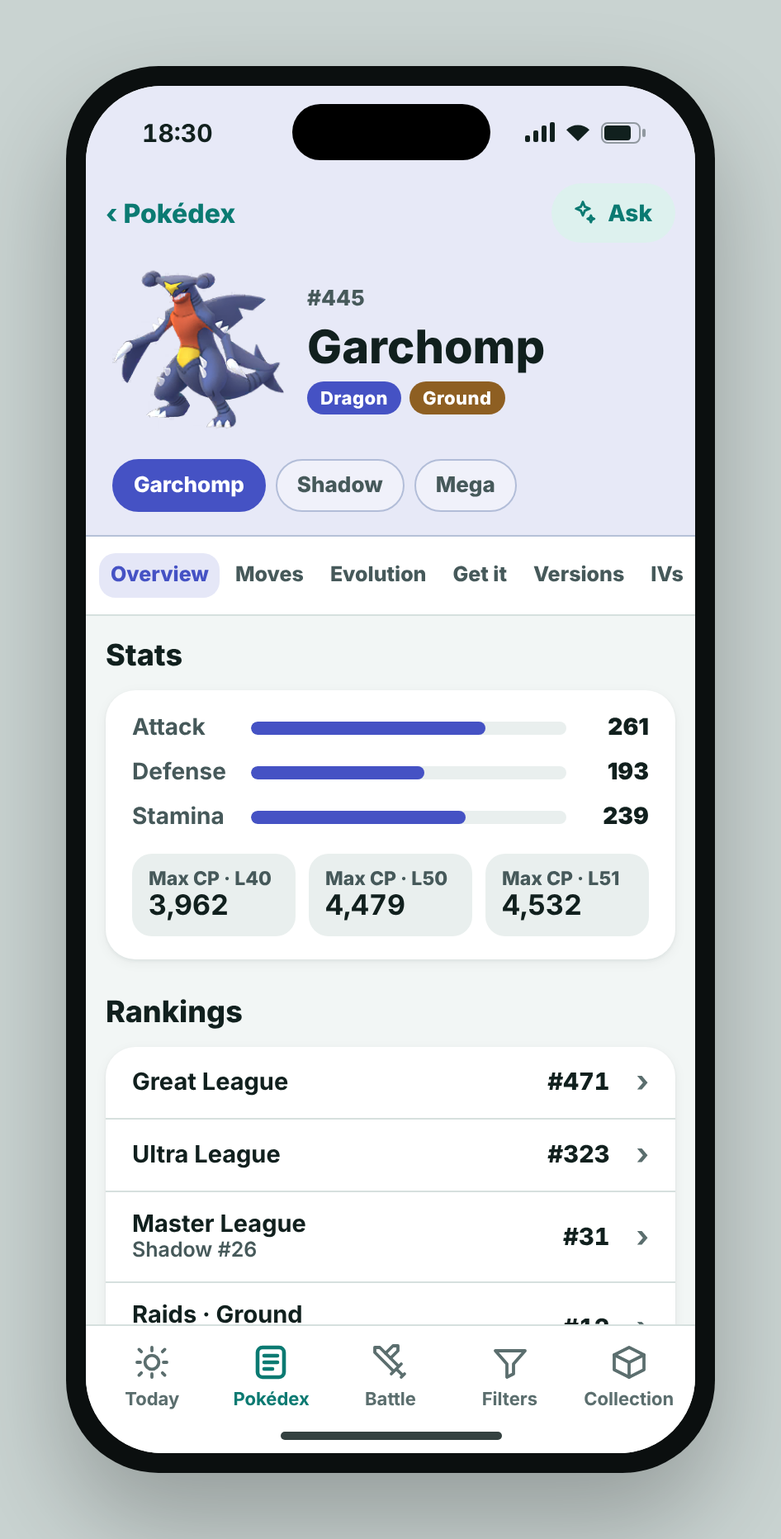
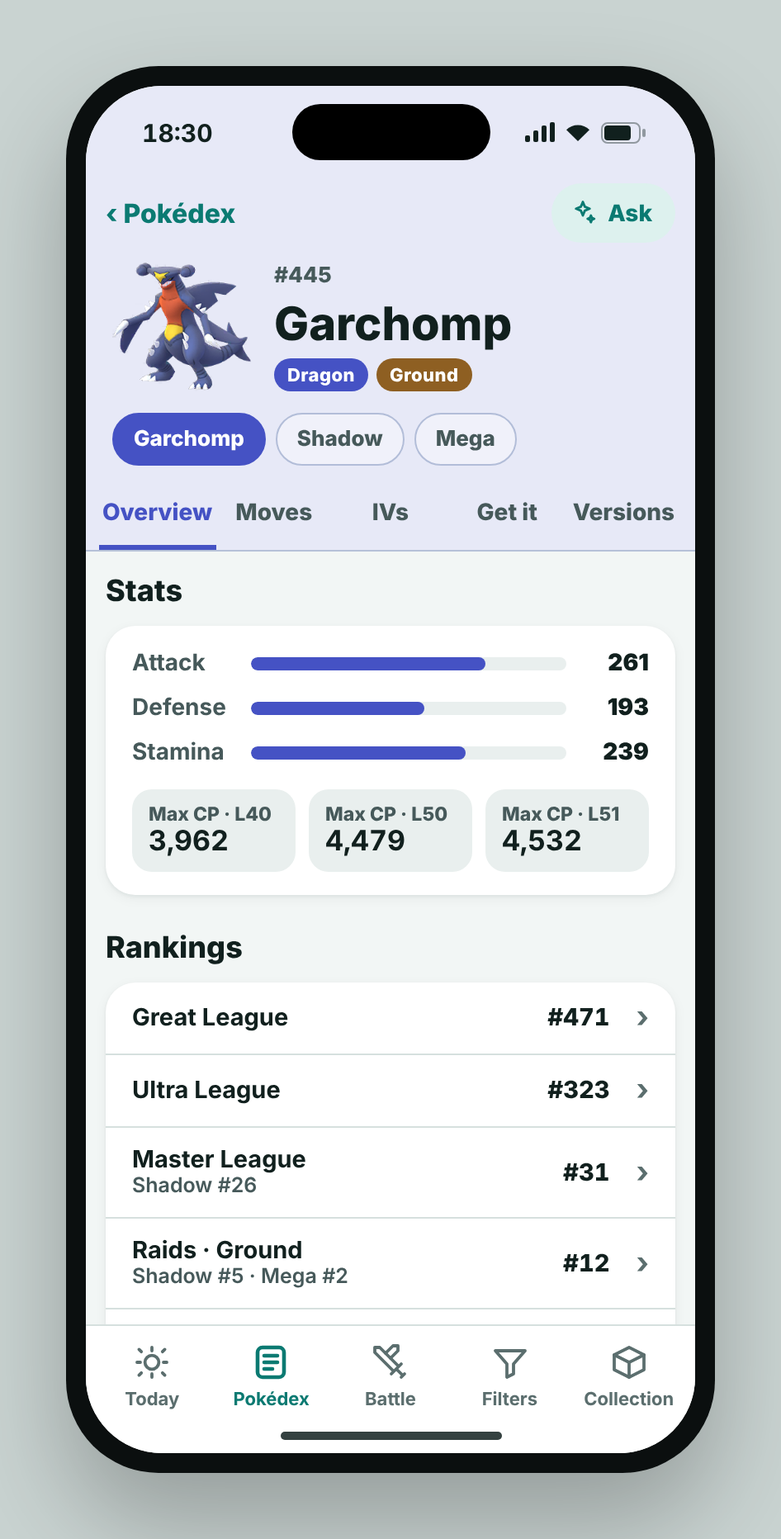
Design: B2 phone uses tabs (Overview, Moves, IVs, Get it, Versions)
Claude-Session: https://claude.ai/code/session_014PLsCiJiJmtsciFeh9tQXY

diff --git a/design/source/screens/B2-phone.html b/design/source/screens/B2-phone.html
@@ -1,21 +1,9 @@
 <!doctype html><html lang="en"><head><meta charset="utf-8"><title>B2 Pokémon page</title><link rel="stylesheet" href="../base.css"><link rel="stylesheet" href="_b2.css"></head><body><div class="stage tint"><div class="device"><div class="screen">
-<div data-statusbar></div><div class="band"><div data-dethead="Pokédex|"></div><div class="hero"><img class="sprite" src="../sprites/445.png" width="104" height="104" alt="Garchomp"><div style="display:flex;flex-direction:column;gap:6px"><span class="no">#445</span><h1>Garchomp</h1><span style="display:flex;gap:5px"><span class="type dragon">Dragon</span><span class="type ground">Ground</span></span></div></div>
-<div class="vswitch"><span class="on">Garchomp</span><span>Shadow</span><span>Mega</span></div></div><div class="jump"><span class="on">Overview</span><span class="">Moves</span><span class="">Evolution</span><span class="">Get it</span><span class="">Versions</span><span class="">IVs</span></div>
-<div class="scroll"><div style="padding:14px 12px 20px;display:flex;flex-direction:column;gap:22px">
-<section class="sec" id="overview"><h2>Stats</h2><div class="card pad" style="display:flex;flex-direction:column;gap:10px"><div class="statrow"><span class="muted">Attack</span><div class="bar"><i style="width:74.6%"></i></div><b style="text-align:right">261</b></div><div class="statrow"><span class="muted">Defense</span><div class="bar"><i style="width:55.1%"></i></div><b style="text-align:right">193</b></div><div class="statrow"><span class="muted">Stamina</span><div class="bar"><i style="width:68.3%"></i></div><b style="text-align:right">239</b></div>
-<div class="kv" style="margin-top:4px"><div><span>Max CP · L40</span><b>3,962</b></div><div><span>Max CP · L50</span><b>4,479</b></div><div><span>Max CP · L51</span><b>4,532</b></div></div></div></section><section class="sec"><h2>Rankings</h2><div class="card"><div class="lrow"><div><div>Great League</div></div><span class="r">#471</span><span class="chev">›</span></div><div class="lrow"><div><div>Ultra League</div></div><span class="r">#323</span><span class="chev">›</span></div><div class="lrow"><div><div>Master League</div><div class=sub>Shadow #26</div></div><span class="r">#31</span><span class="chev">›</span></div><div class="lrow"><div><div>Raids · Ground</div><div class=sub>Shadow #5 · Mega #2</div></div><span class="r">#12</span><span class="chev">›</span></div><div class="lrow"><div><div>Raids · Dragon</div><div class=sub>Shadow #8 · Mega #2</div></div><span class="r">#25</span><span class="chev">›</span></div></div></section><section class="sec"><h2>100% CP cheat sheet</h2><div class="card"><div class="lrow"><span>Research</span><span class="faint" style="font-size:12.5px">L15</span><span class="r">1,698</span></div><div class="lrow"><span>Raids &amp; eggs</span><span class="faint" style="font-size:12.5px">L20</span><span class="r">2,264</span></div><div class="lrow"><span>Weather-boosted raids</span><span class="faint" style="font-size:12.5px">L25</span><span class="r">2,830</span></div><div class="lrow"><span>Wild</span><span class="faint" style="font-size:12.5px">L30</span><span class="r">3,396</span></div><div class="lrow"><span>Wild, weather-boosted</span><span class="faint" style="font-size:12.5px">L35</span><span class="r">3,679</span></div></div></section><section class="sec"><h2>Type matchups</h2><div class="card pad" style="display:flex;flex-direction:column;gap:10px">
+<div data-statusbar></div><div class="band"><div data-dethead="Pokédex|"></div><div class="hero"><img class="sprite" src="../sprites/445.png" width="84" height="84" alt="Garchomp"><div style="display:flex;flex-direction:column;gap:6px"><span class="no">#445</span><h1>Garchomp</h1><span style="display:flex;gap:5px"><span class="type dragon">Dragon</span><span class="type ground">Ground</span></span></div></div>
+<div class="vswitch"><span class="on">Garchomp</span><span>Shadow</span><span>Mega</span></div><div class="ptabs"><span class="on">Overview</span><span class="">Moves</span><span class="">IVs</span><span class="">Get it</span><span class="">Versions</span></div></div>
+<div class="scroll"><div style="padding:14px 12px 20px;display:flex;flex-direction:column;gap:22px"><section class="sec" id="overview"><h2>Stats</h2><div class="card pad" style="display:flex;flex-direction:column;gap:10px"><div class="statrow"><span class="muted">Attack</span><div class="bar"><i style="width:74.6%"></i></div><b style="text-align:right">261</b></div><div class="statrow"><span class="muted">Defense</span><div class="bar"><i style="width:55.1%"></i></div><b style="text-align:right">193</b></div><div class="statrow"><span class="muted">Stamina</span><div class="bar"><i style="width:68.3%"></i></div><b style="text-align:right">239</b></div>
+<div class="kv" style="margin-top:4px"><div><span>Max CP · L40</span><b>3,962</b></div><div><span>Max CP · L50</span><b>4,479</b></div><div><span>Max CP · L51</span><b>4,532</b></div></div></div></section><section class="sec"><h2>Rankings</h2><div class="card"><div class="lrow"><div><div>Great League</div></div><span class="r">#471</span><span class="chev">›</span></div><div class="lrow"><div><div>Ultra League</div></div><span class="r">#323</span><span class="chev">›</span></div><div class="lrow"><div><div>Master League</div><div class=sub>Shadow #26</div></div><span class="r">#31</span><span class="chev">›</span></div><div class="lrow"><div><div>Raids · Ground</div><div class=sub>Shadow #5 · Mega #2</div></div><span class="r">#12</span><span class="chev">›</span></div><div class="lrow"><div><div>Raids · Dragon</div><div class=sub>Shadow #8 · Mega #2</div></div><span class="r">#25</span><span class="chev">›</span></div></div></section><section class="sec"><h2>Type matchups</h2><div class="card pad" style="display:flex;flex-direction:column;gap:10px">
 <div><div class="faint" style="font-size:12.5px;font-weight:800;margin-bottom:6px">Weak to</div><div class="mm"><span class="type ice" style="height:24px;font-size:12px;padding:0 9px">Ice ×2.56</span><span class="type dragon" style="height:24px;font-size:12px;padding:0 9px">Dragon ×1.6</span><span class="type fairy" style="height:24px;font-size:12px;padding:0 9px">Fairy ×1.6</span></div></div>
-<div><div class="faint" style="font-size:12.5px;font-weight:800;margin-bottom:6px">Resists</div><div class="mm"><span class="type electric" style="height:24px;font-size:12px;padding:0 9px">Electric ×0.24</span><span class="type fire" style="height:24px;font-size:12px;padding:0 9px">Fire ×0.63</span><span class="type poison" style="height:24px;font-size:12px;padding:0 9px">Poison ×0.63</span><span class="type rock" style="height:24px;font-size:12px;padding:0 9px">Rock ×0.63</span></div></div></div></section><section class="sec" id="moves"><h2>Moves</h2><div class="card"><div class="lrow" style="flex-direction:column;align-items:flex-start;gap:1px"><span class="sub" style="font-weight:800">Raids · Ground</span><span>Mud Shot + Earth Power</span></div><div class="lrow" style="flex-direction:column;align-items:flex-start;gap:1px"><span class="sub" style="font-weight:800">Raids · Dragon</span><span>Dragon Tail + Breaking Swipe</span></div><div class="lrow" style="flex-direction:column;align-items:flex-start;gap:1px"><span class="sub" style="font-weight:800">Great &amp; Ultra League</span><span>Dragon Tail + Twister, Sand Tomb</span></div><div class="lrow" style="flex-direction:column;align-items:flex-start;gap:1px"><span class="sub" style="font-weight:800">Master League</span><span>Dragon Tail + Twister, Earth Power</span></div></div>
-<div class="card"><div class="mgrp">Fast</div><div class="mrow"><div class="mname"><span class="dot" style="background:var(--t-dragon)"></span>Dragon Tail</div><div class="mstat"><span><b>Raids</b> 14 · 1.0 s · +8</span><span><b>PvP</b> 9 · +12 (3 turns)</span></div></div><div class="mrow"><div class="mname"><span class="dot" style="background:var(--t-ground)"></span>Mud Shot</div><div class="mstat"><span><b>Raids</b> 4 · 0.5 s · +6</span><span><b>PvP</b> 3 · +9 (2 turns)</span></div></div><div class="mgrp">Charged</div><div class="mrow"><div class="mname"><span class="dot" style="background:var(--t-ground)"></span>Earth Power<span class=etm>Elite TM</span></div><div class="mstat"><span><b>Raids</b> 100 · 3.5 s · −50</span><span><b>PvP</b> 90 · −50</span></div></div><div class="mrow"><div class="mname"><span class="dot" style="background:var(--t-dragon)"></span>Outrage</div><div class="mstat"><span><b>Raids</b> 110 · 4.0 s · −50</span><span><b>PvP</b> 110 · −60</span></div></div><div class="mrow"><div class="mname"><span class="dot" style="background:var(--t-ground)"></span>Earthquake</div><div class="mstat"><span><b>Raids</b> 140 · 3.5 s · −100</span><span><b>PvP</b> 120 · −65</span></div></div><div class="mrow"><div class="mname"><span class="dot" style="background:var(--t-dragon)"></span>Breaking Swipe</div><div class="mstat"><span><b>Raids</b> 45 · 1.0 s · −33</span><span><b>PvP</b> 50 · −50</span></div></div><div class="mrow"><div class="mname"><span class="dot" style="background:var(--t-fire)"></span>Fire Blast</div><div class="mstat"><span><b>Raids</b> 140 · 4.0 s · −100</span><span><b>PvP</b> 140 · −80</span></div></div><div class="mrow"><div class="mname"><span class="dot" style="background:var(--t-ground)"></span>Sand Tomb</div><div class="mstat"><span><b>Raids</b> 60 · 4.0 s · −33</span><span><b>PvP</b> 55 · −45</span></div></div><div class="mrow"><div class="mname"><span class="dot" style="background:var(--t-dragon)"></span>Twister</div><div class="mstat"><span><b>Raids</b> 50 · 3.0 s · −33</span><span><b>PvP</b> 70 · −40</span></div></div></div></section><section class="sec" id="evolution"><h2>Evolution</h2><div class="card"><div class="evo"><div class="p"><img class="sprite" src="../sprites/443.png" width="56" height="56" alt="" style="opacity:.85">Gible</div><div class="arrow"><span style="font-size:18px">→</span>25 candy</div><div class="p"><img class="sprite" src="../sprites/444.png" width="56" height="56" alt="" style="opacity:.85">Gabite</div><div class="arrow"><span style="font-size:18px">→</span>100 candy</div><div class="p"><img class="sprite" src="../sprites/445.png" width="56" height="56" alt="" style="">Garchomp</div></div>
-<div class="lrow" style="font-size:13.5px"><span class="muted">Buddy distance</span><span class="r">5 km</span></div></div></section><section class="sec" id="get"><h2>How to get it</h2><div class="card"><div class="lrow" style="padding-bottom:4px"><span class="pill live"><span class="dot" style="width:7px;height:7px;margin:0"></span>Right now</span></div><div class="lrow"><span>1★ raids</span><span class="r" style="font-weight:700;text-align:right;color:var(--text-2)">Gible · until Tue 3 Nov</span></div><div class="lrow"><span>10 km eggs</span><span class="r" style="font-weight:700;text-align:right;color:var(--text-2)">Gible</span></div><div class="lrow"><span>Field Research</span><span class="r" style="font-weight:700;text-align:right;color:var(--text-2)">Win 3 raids → Gible</span></div><div class="lrow"><span>Community Day</span><span class="r" style="font-weight:700;text-align:right;color:var(--text-2)">Gible · Sat 7 Nov</span></div></div>
-<div class="card"><div class="lrow" style="padding-bottom:4px"><b style="font-size:13px" class="faint">USUALLY</b></div><div class="lrow"><span>Wild</span><span class="r" style="font-weight:700;text-align:right;color:var(--text-2)">Gible, rare</span></div><div class="lrow"><span>Eggs</span><span class="r" style="font-weight:700;text-align:right;color:var(--text-2)">10 km</span></div><div class="lrow"><span>Raids</span><span class="r" style="font-weight:700;text-align:right;color:var(--text-2)">Gible 1★ · Mega Garchomp</span></div></div></section><section class="sec" id="versions"><h2>Versions</h2><div class="card"><div class="vgrid" style="grid-template-columns:repeat(5,minmax(0,1fr))"><div><span style="position:relative"><img class="sprite" src="../sprites/445.png" width="54" height="54" alt="" style=""></span>Garchomp</div><div><span style="position:relative"><img class="sprite" src="../sprites/445_shiny.png" width="54" height="54" alt="" style=""></span>Shiny</div><div><span style="position:relative"><img class="sprite" src="../sprites/445.png" width="54" height="54" alt="" style="filter:drop-shadow(0 0 3px #7B3FB0) drop-shadow(0 0 3px #7B3FB0)"></span>Shadow</div><div><span style="position:relative"><img class="sprite" src="../sprites/445_51.png" width="54" height="54" alt="" style=""></span>Mega</div><div><span style="position:relative"><img class="sprite" src="../sprites/445_51_shiny.png" width="54" height="54" alt="" style=""></span>Shiny Mega</div></div>
-<div class="lrow" style="font-size:13px;color:var(--text-2)">Mega Garchomp: Attack 339 · Defense 222 · Stamina 239 · max CP 6,132 (L50)</div></div></section><section class="sec" id="ivs"><h2>Best IVs</h2><div class="card"><div class="ivrow"><div style="display:flex;justify-content:space-between;align-items:baseline"><b>Great League</b><b class="num">0/15/14</b></div>
-<div class="boxes"><span>Level 14 · CP 1,495</span></div><div class="boxes"><span>Keep: Atk 0–5 · Def 11–15 · HP 6–15</span></div><div class="str"><code>443-445&amp;0-1attack&amp;3-4defense&amp;2-4hp&amp;cp-1500</code><button class="copy">Copy</button></div></div><div class="ivrow"><div style="display:flex;justify-content:space-between;align-items:baseline"><b>Ultra League</b><b class="num">0/14/13</b></div>
-<div class="boxes"><span>Level 23.5 · CP 2,499</span></div><div class="boxes"><span>Keep: Atk 0–5 · Def 11–15 · HP 6–15</span></div><div class="str"><code>443-445&amp;0-1attack&amp;3-4defense&amp;2-4hp&amp;cp-2500</code><button class="copy">Copy</button></div></div><div class="ivrow"><div style="display:flex;justify-content:space-between;align-items:baseline"><b>Master League</b><b class="num">15/15/15</b></div>
-<div class="boxes"><span>Level 50 · CP 4,479</span></div><div class="boxes"><span>Keep: Atk 15 · Def 15 · HP 15</span></div></div></div><div class="card pad" style="display:flex;flex-direction:column;gap:10px"><b>Check any IVs</b>
-<div class="ivin"><label>Attack<input value="2"></label><label>Defense<input value="15"></label><label>HP<input value="13"></label></div>
-<div class="lrow" style="padding:6px 0 0"><span>Great League</span><span class="r">#2,042 <span class="faint">· 94.9%</span></span></div>
-<div class="lrow" style="padding:6px 0 0;border-top:0"><span>Ultra League</span><span class="r" style="color:var(--accent)">#232 <span class="faint">· 97.9% · CP 2,471</span></span></div>
-<div class="lrow" style="padding:6px 0 0;border-top:0"><span>Master League</span><span class="r">#590 <span class="faint">· 94.4%</span></span></div></div></section></div></div>
+<div><div class="faint" style="font-size:12.5px;font-weight:800;margin-bottom:6px">Resists</div><div class="mm"><span class="type electric" style="height:24px;font-size:12px;padding:0 9px">Electric ×0.24</span><span class="type fire" style="height:24px;font-size:12px;padding:0 9px">Fire ×0.63</span><span class="type poison" style="height:24px;font-size:12px;padding:0 9px">Poison ×0.63</span><span class="type rock" style="height:24px;font-size:12px;padding:0 9px">Rock ×0.63</span></div></div></div></section></div></div>
 <div data-tabbar="pokedex"></div></div></div></div><script src="../chrome.js"></script>
-<script>document.querySelector('.statusbar').style.background='transparent';document.querySelector('.statusbar').parentElement.querySelector('.band').before(document.querySelector('.statusbar'));document.querySelector('.statusbar').style.background='color-mix(in srgb, var(--t-dragon) 13%, var(--surface))';</script></body></html>
+<script>document.querySelector('.statusbar').style.background='color-mix(in srgb, var(--t-dragon) 13%, var(--surface))';</script></body></html>

diff --git a/design/source/screens/B2m-phone.html b/design/source/screens/B2m-phone.html
@@ -1,0 +1,7 @@
+<!doctype html><html lang="en"><head><meta charset="utf-8"><title>B2 Pokémon page</title><link rel="stylesheet" href="../base.css"><link rel="stylesheet" href="_b2.css"></head><body><div class="stage tint"><div class="device"><div class="screen">
+<div data-statusbar></div><div class="band"><div data-dethead="Pokédex|"></div><div class="hero"><img class="sprite" src="../sprites/445.png" width="84" height="84" alt="Garchomp"><div style="display:flex;flex-direction:column;gap:6px"><span class="no">#445</span><h1>Garchomp</h1><span style="display:flex;gap:5px"><span class="type dragon">Dragon</span><span class="type ground">Ground</span></span></div></div>
+<div class="vswitch"><span class="on">Garchomp</span><span>Shadow</span><span>Mega</span></div><div class="ptabs"><span class="">Overview</span><span class="on">Moves</span><span class="">IVs</span><span class="">Get it</span><span class="">Versions</span></div></div>
+<div class="scroll"><div style="padding:14px 12px 20px;display:flex;flex-direction:column;gap:22px"><section class="sec" id="moves"><h2>Moves</h2><div class="card"><div class="lrow" style="flex-direction:column;align-items:flex-start;gap:1px"><span class="sub" style="font-weight:800">Raids · Ground</span><span>Mud Shot + Earth Power</span></div><div class="lrow" style="flex-direction:column;align-items:flex-start;gap:1px"><span class="sub" style="font-weight:800">Raids · Dragon</span><span>Dragon Tail + Breaking Swipe</span></div><div class="lrow" style="flex-direction:column;align-items:flex-start;gap:1px"><span class="sub" style="font-weight:800">Great &amp; Ultra League</span><span>Dragon Tail + Twister, Sand Tomb</span></div><div class="lrow" style="flex-direction:column;align-items:flex-start;gap:1px"><span class="sub" style="font-weight:800">Master League</span><span>Dragon Tail + Twister, Earth Power</span></div></div>
+<div class="card"><div class="mgrp">Fast</div><div class="mrow"><div class="mname"><span class="dot" style="background:var(--t-dragon)"></span>Dragon Tail</div><div class="mstat"><span><b>Raids</b> 14 · 1.0 s · +8</span><span><b>PvP</b> 9 · +12 (3 turns)</span></div></div><div class="mrow"><div class="mname"><span class="dot" style="background:var(--t-ground)"></span>Mud Shot</div><div class="mstat"><span><b>Raids</b> 4 · 0.5 s · +6</span><span><b>PvP</b> 3 · +9 (2 turns)</span></div></div><div class="mgrp">Charged</div><div class="mrow"><div class="mname"><span class="dot" style="background:var(--t-ground)"></span>Earth Power<span class=etm>Elite TM</span></div><div class="mstat"><span><b>Raids</b> 100 · 3.5 s · −50</span><span><b>PvP</b> 90 · −50</span></div></div><div class="mrow"><div class="mname"><span class="dot" style="background:var(--t-dragon)"></span>Outrage</div><div class="mstat"><span><b>Raids</b> 110 · 4.0 s · −50</span><span><b>PvP</b> 110 · −60</span></div></div><div class="mrow"><div class="mname"><span class="dot" style="background:var(--t-ground)"></span>Earthquake</div><div class="mstat"><span><b>Raids</b> 140 · 3.5 s · −100</span><span><b>PvP</b> 120 · −65</span></div></div><div class="mrow"><div class="mname"><span class="dot" style="background:var(--t-dragon)"></span>Breaking Swipe</div><div class="mstat"><span><b>Raids</b> 45 · 1.0 s · −33</span><span><b>PvP</b> 50 · −50</span></div></div><div class="mrow"><div class="mname"><span class="dot" style="background:var(--t-fire)"></span>Fire Blast</div><div class="mstat"><span><b>Raids</b> 140 · 4.0 s · −100</span><span><b>PvP</b> 140 · −80</span></div></div><div class="mrow"><div class="mname"><span class="dot" style="background:var(--t-ground)"></span>Sand Tomb</div><div class="mstat"><span><b>Raids</b> 60 · 4.0 s · −33</span><span><b>PvP</b> 55 · −45</span></div></div><div class="mrow"><div class="mname"><span class="dot" style="background:var(--t-dragon)"></span>Twister</div><div class="mstat"><span><b>Raids</b> 50 · 3.0 s · −33</span><span><b>PvP</b> 70 · −40</span></div></div></div></section></div></div>
+<div data-tabbar="pokedex"></div></div></div></div><script src="../chrome.js"></script>
+<script>document.querySelector('.statusbar').style.background='color-mix(in srgb, var(--t-dragon) 13%, var(--surface))';</script></body></html>

diff --git a/design/source/screens/B2i-phone.html b/design/source/screens/B2i-phone.html
@@ -1,0 +1,13 @@
+<!doctype html><html lang="en"><head><meta charset="utf-8"><title>B2 Pokémon page</title><link rel="stylesheet" href="../base.css"><link rel="stylesheet" href="_b2.css"></head><body><div class="stage tint"><div class="device"><div class="screen">
+<div data-statusbar></div><div class="band"><div data-dethead="Pokédex|"></div><div class="hero"><img class="sprite" src="../sprites/445.png" width="84" height="84" alt="Garchomp"><div style="display:flex;flex-direction:column;gap:6px"><span class="no">#445</span><h1>Garchomp</h1><span style="display:flex;gap:5px"><span class="type dragon">Dragon</span><span class="type ground">Ground</span></span></div></div>
+<div class="vswitch"><span class="on">Garchomp</span><span>Shadow</span><span>Mega</span></div><div class="ptabs"><span class="">Overview</span><span class="">Moves</span><span class="on">IVs</span><span class="">Get it</span><span class="">Versions</span></div></div>
+<div class="scroll"><div style="padding:14px 12px 20px;display:flex;flex-direction:column;gap:22px"><section class="sec" id="ivs"><h2>Best IVs</h2><div class="card"><div class="ivrow"><div style="display:flex;justify-content:space-between;align-items:baseline"><b>Great League</b><b class="num">0/15/14</b></div>
+<div class="boxes"><span>Level 14 · CP 1,495</span></div><div class="boxes"><span>Keep: Atk 0–5 · Def 11–15 · HP 6–15</span></div><div class="str"><code>443-445&amp;0-1attack&amp;3-4defense&amp;2-4hp&amp;cp-1500</code><button class="copy">Copy</button></div></div><div class="ivrow"><div style="display:flex;justify-content:space-between;align-items:baseline"><b>Ultra League</b><b class="num">0/14/13</b></div>
+<div class="boxes"><span>Level 23.5 · CP 2,499</span></div><div class="boxes"><span>Keep: Atk 0–5 · Def 11–15 · HP 6–15</span></div><div class="str"><code>443-445&amp;0-1attack&amp;3-4defense&amp;2-4hp&amp;cp-2500</code><button class="copy">Copy</button></div></div><div class="ivrow"><div style="display:flex;justify-content:space-between;align-items:baseline"><b>Master League</b><b class="num">15/15/15</b></div>
+<div class="boxes"><span>Level 50 · CP 4,479</span></div><div class="boxes"><span>Keep: Atk 15 · Def 15 · HP 15</span></div></div></div><div class="card pad" style="display:flex;flex-direction:column;gap:10px"><b>Check any IVs</b>
+<div class="ivin"><label>Attack<input value="2"></label><label>Defense<input value="15"></label><label>HP<input value="13"></label></div>
+<div class="lrow" style="padding:6px 0 0"><span>Great League</span><span class="r">#2,042 <span class="faint">· 94.9%</span></span></div>
+<div class="lrow" style="padding:6px 0 0;border-top:0"><span>Ultra League</span><span class="r" style="color:var(--accent)">#232 <span class="faint">· 97.9% · CP 2,471</span></span></div>
+<div class="lrow" style="padding:6px 0 0;border-top:0"><span>Master League</span><span class="r">#590 <span class="faint">· 94.4%</span></span></div></div></section><section class="sec"><h2>100% CP cheat sheet</h2><div class="card"><div class="lrow"><span>Research</span><span class="faint" style="font-size:12.5px">L15</span><span class="r">1,698</span></div><div class="lrow"><span>Raids &amp; eggs</span><span class="faint" style="font-size:12.5px">L20</span><span class="r">2,264</span></div><div class="lrow"><span>Weather-boosted raids</span><span class="faint" style="font-size:12.5px">L25</span><span class="r">2,830</span></div><div class="lrow"><span>Wild</span><span class="faint" style="font-size:12.5px">L30</span><span class="r">3,396</span></div><div class="lrow"><span>Wild, weather-boosted</span><span class="faint" style="font-size:12.5px">L35</span><span class="r">3,679</span></div></div></section></div></div>
+<div data-tabbar="pokedex"></div></div></div></div><script src="../chrome.js"></script>
+<script>document.querySelector('.statusbar').style.background='color-mix(in srgb, var(--t-dragon) 13%, var(--surface))';</script></body></html>

diff --git a/design/source/screens/B2g-phone.html b/design/source/screens/B2g-phone.html
@@ -1,0 +1,8 @@
+<!doctype html><html lang="en"><head><meta charset="utf-8"><title>B2 Pokémon page</title><link rel="stylesheet" href="../base.css"><link rel="stylesheet" href="_b2.css"></head><body><div class="stage tint"><div class="device"><div class="screen">
+<div data-statusbar></div><div class="band"><div data-dethead="Pokédex|"></div><div class="hero"><img class="sprite" src="../sprites/445.png" width="84" height="84" alt="Garchomp"><div style="display:flex;flex-direction:column;gap:6px"><span class="no">#445</span><h1>Garchomp</h1><span style="display:flex;gap:5px"><span class="type dragon">Dragon</span><span class="type ground">Ground</span></span></div></div>
+<div class="vswitch"><span class="on">Garchomp</span><span>Shadow</span><span>Mega</span></div><div class="ptabs"><span class="">Overview</span><span class="">Moves</span><span class="">IVs</span><span class="on">Get it</span><span class="">Versions</span></div></div>
+<div class="scroll"><div style="padding:14px 12px 20px;display:flex;flex-direction:column;gap:22px"><section class="sec" id="get"><h2>How to get it</h2><div class="card"><div class="lrow" style="padding-bottom:4px"><span class="pill live"><span class="dot" style="width:7px;height:7px;margin:0"></span>Right now</span></div><div class="lrow"><span>1★ raids</span><span class="r" style="font-weight:700;text-align:right;color:var(--text-2)">Gible · until Tue 3 Nov</span></div><div class="lrow"><span>10 km eggs</span><span class="r" style="font-weight:700;text-align:right;color:var(--text-2)">Gible</span></div><div class="lrow"><span>Field Research</span><span class="r" style="font-weight:700;text-align:right;color:var(--text-2)">Win 3 raids → Gible</span></div><div class="lrow"><span>Community Day</span><span class="r" style="font-weight:700;text-align:right;color:var(--text-2)">Gible · Sat 7 Nov</span></div></div>
+<div class="card"><div class="lrow" style="padding-bottom:4px"><b style="font-size:13px" class="faint">USUALLY</b></div><div class="lrow"><span>Wild</span><span class="r" style="font-weight:700;text-align:right;color:var(--text-2)">Gible, rare</span></div><div class="lrow"><span>Eggs</span><span class="r" style="font-weight:700;text-align:right;color:var(--text-2)">10 km</span></div><div class="lrow"><span>Raids</span><span class="r" style="font-weight:700;text-align:right;color:var(--text-2)">Gible 1★ · Mega Garchomp</span></div></div></section><section class="sec" id="evolution"><h2>Evolution</h2><div class="card"><div class="evo"><div class="p"><img class="sprite" src="../sprites/443.png" width="56" height="56" alt="" style="opacity:.85">Gible</div><div class="arrow"><span style="font-size:18px">→</span>25 candy</div><div class="p"><img class="sprite" src="../sprites/444.png" width="56" height="56" alt="" style="opacity:.85">Gabite</div><div class="arrow"><span style="font-size:18px">→</span>100 candy</div><div class="p"><img class="sprite" src="../sprites/445.png" width="56" height="56" alt="" style="">Garchomp</div></div>
+<div class="lrow" style="font-size:13.5px"><span class="muted">Buddy distance</span><span class="r">5 km</span></div></div></section></div></div>
+<div data-tabbar="pokedex"></div></div></div></div><script src="../chrome.js"></script>
+<script>document.querySelector('.statusbar').style.background='color-mix(in srgb, var(--t-dragon) 13%, var(--surface))';</script></body></html>

diff --git a/design/source/screens/B2v-phone.html b/design/source/screens/B2v-phone.html
@@ -1,0 +1,7 @@
+<!doctype html><html lang="en"><head><meta charset="utf-8"><title>B2 Pokémon page</title><link rel="stylesheet" href="../base.css"><link rel="stylesheet" href="_b2.css"></head><body><div class="stage tint"><div class="device"><div class="screen">
+<div data-statusbar></div><div class="band"><div data-dethead="Pokédex|"></div><div class="hero"><img class="sprite" src="../sprites/445.png" width="84" height="84" alt="Garchomp"><div style="display:flex;flex-direction:column;gap:6px"><span class="no">#445</span><h1>Garchomp</h1><span style="display:flex;gap:5px"><span class="type dragon">Dragon</span><span class="type ground">Ground</span></span></div></div>
+<div class="vswitch"><span class="on">Garchomp</span><span>Shadow</span><span>Mega</span></div><div class="ptabs"><span class="">Overview</span><span class="">Moves</span><span class="">IVs</span><span class="">Get it</span><span class="on">Versions</span></div></div>
+<div class="scroll"><div style="padding:14px 12px 20px;display:flex;flex-direction:column;gap:22px"><section class="sec" id="versions"><h2>Versions</h2><div class="card"><div class="vgrid" style="grid-template-columns:repeat(5,minmax(0,1fr))"><div><span style="position:relative"><img class="sprite" src="../sprites/445.png" width="54" height="54" alt="" style=""></span>Garchomp</div><div><span style="position:relative"><img class="sprite" src="../sprites/445_shiny.png" width="54" height="54" alt="" style=""></span>Shiny</div><div><span style="position:relative"><img class="sprite" src="../sprites/445.png" width="54" height="54" alt="" style="filter:drop-shadow(0 0 3px #7B3FB0) drop-shadow(0 0 3px #7B3FB0)"></span>Shadow</div><div><span style="position:relative"><img class="sprite" src="../sprites/445_51.png" width="54" height="54" alt="" style=""></span>Mega</div><div><span style="position:relative"><img class="sprite" src="../sprites/445_51_shiny.png" width="54" height="54" alt="" style=""></span>Shiny Mega</div></div>
+<div class="lrow" style="font-size:13px;color:var(--text-2)">Mega Garchomp: Attack 339 · Defense 222 · Stamina 239 · max CP 6,132 (L50)</div></div></section></div></div>
+<div data-tabbar="pokedex"></div></div></div></div><script src="../chrome.js"></script>
+<script>document.querySelector('.statusbar').style.background='color-mix(in srgb, var(--t-dragon) 13%, var(--surface))';</script></body></html>

diff --git a/design/source/screens/_b2.css b/design/source/screens/_b2.css
@@ -1,10 +1,10 @@
 .tint { --tint: var(--t-dragon); }
 .band { background: color-mix(in srgb, var(--tint) 13%, var(--surface)); border-bottom: 1px solid color-mix(in srgb, var(--tint) 22%, var(--line)); }
 .band .dethead { background: transparent; border-bottom: 0; }
-.hero { display: flex; gap: 14px; align-items: center; padding: 4px 16px 14px; }
+.hero { display: flex; gap: 14px; align-items: center; padding: 0 16px 10px; }
 .hero h1 { margin: 0; font-size: 28px; font-weight: 800; line-height: 1.1; }
 .hero .no { font-size: 13px; font-weight: 800; color: var(--text-2); }
-.vswitch { display: flex; gap: 6px; padding: 0 16px 14px; }
+.vswitch { display: flex; gap: 6px; padding: 0 16px 10px; }
 .vswitch span { height: 32px; padding: 0 12px; border-radius: 16px; font-weight: 800; font-size: 13px; display: inline-flex; align-items: center; background: color-mix(in srgb, var(--tint) 8%, var(--surface)); color: var(--text-2); border: 1px solid color-mix(in srgb, var(--tint) 25%, var(--line)); }
 .vswitch span.on { background: var(--tint); border-color: var(--tint); color: #fff; }
 .jump { display: flex; gap: 2px; padding: 10px 8px; background: var(--surface); border-bottom: 1px solid var(--line); overflow: hidden; }
@@ -57,3 +57,6 @@
 .mname { font-weight: 800; font-size: 14.5px; display: flex; align-items: center; }
 .mstat { display: flex; gap: 16px; font-size: 12.5px; color: var(--text-2); font-weight: 700; font-variant-numeric: tabular-nums; padding-left: 16px; }
 .mstat b { color: var(--text-3); font-weight: 800; margin-right: 2px; }
+.ptabs { display: flex; padding: 0 8px; }
+.ptabs span { flex: 1; text-align: center; font-size: 14px; font-weight: 800; color: var(--text-2); padding: 10px 0 11px; border-bottom: 3px solid transparent; }
+.ptabs span.on { color: var(--tint); border-bottom-color: var(--tint); }

diff --git a/design/source/screens/gen_b2.py b/design/source/screens/gen_b2.py
@@ -70,20 +70,24 @@ def ivs():
 <div class="lrow" style="padding:6px 0 0;border-top:0"><span>Master League</span><span class="r">#590 <span class="faint">· 94.4%</span></span></div></div>'''
     return f'<section class="sec" id="ivs"><h2>Best IVs</h2><div class="card">{rows}</div>{checker}</section>'
 
-jump = '<div class="jump">' + ''.join(f'<span class="{"on" if i == 0 else ""}">{n}</span>' for i, n in enumerate(["Overview", "Moves", "Evolution", "Get it", "Versions", "IVs"])) + '</div>'
+TABS = [("o", "Overview"), ("m", "Moves"), ("i", "IVs"), ("g", "Get it"), ("v", "Versions")]
+BODY = {"o": lambda: stats() + ranks() + matchups(), "m": lambda: moves(True), "i": lambda: ivs() + cps(),
+        "g": lambda: getit() + evo(), "v": versions}
+tabs = lambda on: '<div class="ptabs">' + ''.join(f'<span class="{"on" if k == on else ""}">{n}</span>' for k, n in TABS) + '</div>'
 hero = lambda size: f'''<div class="hero"><img class="sprite" src="../sprites/445.png" width="{size}" height="{size}" alt="Garchomp"><div style="display:flex;flex-direction:column;gap:6px"><span class="no">#445</span><h1>Garchomp</h1><span style="display:flex;gap:5px">{T(["dragon", "ground"])}</span></div></div>
 <div class="vswitch"><span class="on">Garchomp</span><span>Shadow</span><span>Mega</span></div>'''
 head = '<!doctype html><html lang="en"><head><meta charset="utf-8"><title>B2 Pokémon page</title><link rel="stylesheet" href="../base.css"><link rel="stylesheet" href="_b2.css"></head><body>'
-phone = head + f'''<div class="stage tint"><div class="device"><div class="screen">
-<div data-statusbar></div><div class="band"><div data-dethead="Pokédex|"></div>{hero(104)}</div>{jump}
-<div class="scroll"><div style="padding:14px 12px 20px;display:flex;flex-direction:column;gap:22px">
-{stats()}{ranks()}{cps()}{matchups()}{moves(True)}{evo()}{getit()}{versions()}{ivs()}</div></div>
+def phone(tab):
+    return head + f'''<div class="stage tint"><div class="device"><div class="screen">
+<div data-statusbar></div><div class="band"><div data-dethead="Pokédex|"></div>{hero(84)}{tabs(tab)}</div>
+<div class="scroll"><div style="padding:14px 12px 20px;display:flex;flex-direction:column;gap:22px">{BODY[tab]()}</div></div>
 <div data-tabbar="pokedex"></div></div></div></div><script src="../chrome.js"></script>
-<script>document.querySelector('.statusbar').style.background='transparent';document.querySelector('.statusbar').parentElement.querySelector('.band').before(document.querySelector('.statusbar'));document.querySelector('.statusbar').style.background='color-mix(in srgb, var(--t-dragon) 13%, var(--surface))';</script></body></html>'''
+<script>document.querySelector('.statusbar').style.background='color-mix(in srgb, var(--t-dragon) 13%, var(--surface))';</script></body></html>'''
 desk = head + f'''<div class="desktop tint"><div data-sidebar="pokedex"></div><div class="main"><div data-topbar></div>
 <div class="band" style="padding:18px 32px 4px"><a class="backlink">‹ Pokédex</a><div style="display:flex;align-items:flex-end;gap:24px">{hero(150).replace('class="vswitch"', 'class="vswitch" style="padding-bottom:22px;margin-left:auto"')}</div></div>
 <div class="content" style="max-width:1200px;display:grid;grid-template-columns:minmax(0,1fr) minmax(0,1fr);gap:24px;align-items:start">
 <div style="display:flex;flex-direction:column;gap:22px">{stats()}{ranks()}{moves()}{versions()}</div>
 <div style="display:flex;flex-direction:column;gap:22px">{ivs()}{cps()}{matchups()}{evo()}{getit()}</div></div></div></div><script src="../chrome.js"></script></body></html>'''
-(HERE / 'B2-phone.html').write_text(phone)
+for k, _ in TABS:
+    (HERE / f'B2{"" if k == "o" else k}-phone.html').write_text(phone(k))
 (HERE / 'B2-desktop.html').write_text(desk)

diff --git a/CLAUDE.md b/CLAUDE.md
@@ -146,6 +146,7 @@ Earlier product work (feature list F01–F25 with priorities, UI choices, first 
 | 2026-10-27 | Pokédex filters **look at every version**: a Pokémon matches if any version matches; the line shows the best-matching version and **hides badges of versions that don't match**. |
 | 2026-10-27 | **B1 Pokédex list approved** (one line per species, version markers with hover/tap switching, version-aware filters). |
 | 2026-10-27 | All commits authored by the owner's GitHub account (history rewritten); Claude's involvement shown by the Co-Authored-By trailer. |
+| 2026-10-27 | Pokémon page (B2) on the **phone uses tabs** (Overview · Moves · IVs · Get it · Versions), not one long page; desktop keeps everything on one page in two columns. |
 
 ## Open decisions
 
